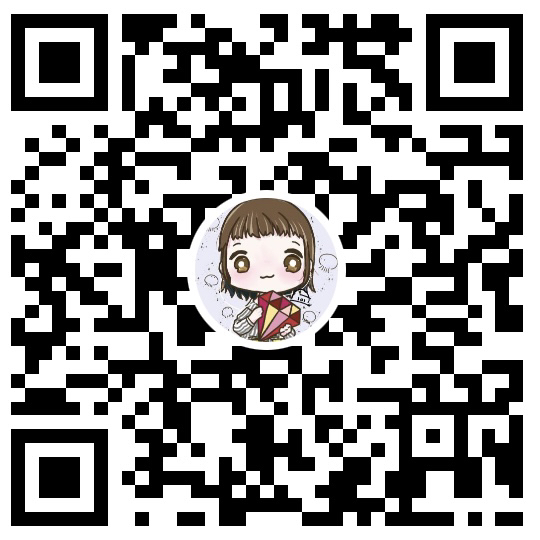
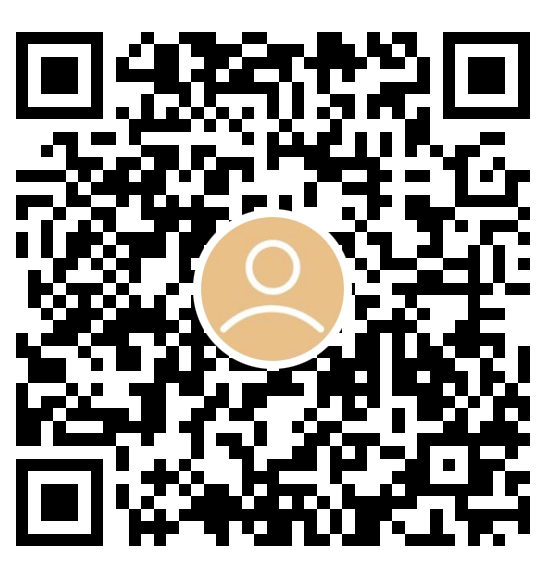
paypayのQR更新とdeployの設定更新 (#36)
* マスターデータ達を入れてあげる

* ギャラリーページ追加

* paypayのリンク更新 deploy.rb にマスターデータ追加

diff --git a/config/deploy.rb b/config/deploy.rb
@@ -11,7 +11,7 @@ set :nginx_config_name, "#{fetch(:application)}.conf"
 set :nginx_sites_enabled_path, "/etc/nginx/conf.d"
 
 append :linked_dirs, "log", "tmp/pids", "tmp/cache", "tmp/sockets", "app/assets/images/master"
-append :linked_files, "config/database.yml"
+append :linked_files, "config/database.yml", "db/csvs/console_colors.csv", "db/csvs/custom_titles.csv", "db/csvs/icons.csv", "db/csvs/navigators.csv", "db/csvs/plates.csv", "db/csvs/songs.csv", "db/csvs/titles.csv"
 
 namespace :deploy do
   desc "No ActiveRecord override"

diff --git a/app/helpers/home_helper.rb b/app/helpers/home_helper.rb
@@ -3,4 +3,8 @@ module HomeHelper
     files = Dir.glob('app/views/home/information/*.ja.html.haml').sort_by{ |fn| fn}.reverse!
     files.map{|f| f.slice(/\d{4}_\d{2}_\d{2}_?\d*/)}
   end
+
+  def paypay_url
+    'https://qr.paypay.ne.jp/p2p01_JeBXL4V5EegOYY7H'
+  end
 end
